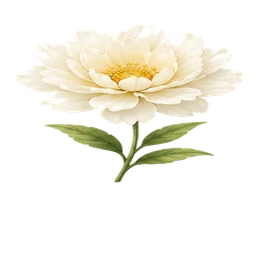
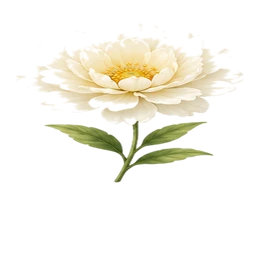
Fix flower white boxes + soften weed colours
Flowers:
- Re-extract all 24 with improved background removal: dilate bg mask
  5px (near-white only) then Gaussian alpha feather (1.2px) for clean
  anti-aliased edges — eliminates white box artifacts on garden bg

Weeds:
- Replace pure black (#1A1E0E) spines with warm dark brown (#4A3520 /
  #574028 / #5E4832) for a natural thorny-plant look
- Reduce outer spine alpha 0.90→0.82, inner 0.72→0.65
- Centre core changed to warm dark brown (#3A2810)
- Slightly smaller (r=11) and softer — less jarring against garden

Claude-Session: https://claude.ai/code/session_01S2gekPUJooPMvPKjFjtUcr

diff --git a/src/screens/Vredepad.jsx b/src/screens/Vredepad.jsx
@@ -459,54 +459,54 @@ function drawPromiseSeed(ctx, x, y, pulse, plant) {
 }
 
 function drawWeed(ctx, x, y, pulse, t) {
-  const r = 12 + Math.sin(pulse * 0.7) * 1.2
+  const r = 11 + Math.sin(pulse * 0.7) * 1.0
   ctx.save()
   ctx.translate(x, y)
-  // Ground shadow
-  const shadow = ctx.createRadialGradient(0, 0, 0, 0, 0, r * 2.2)
-  shadow.addColorStop(0,    'rgba(18,25,8,0.50)')
-  shadow.addColorStop(0.52, 'rgba(18,25,8,0.20)')
-  shadow.addColorStop(1,    'rgba(18,25,8,0)')
+  // Soft dark earth shadow
+  const shadow = ctx.createRadialGradient(0, 0, 0, 0, 0, r * 2.0)
+  shadow.addColorStop(0,    'rgba(45,30,10,0.50)')
+  shadow.addColorStop(0.55, 'rgba(45,30,10,0.18)')
+  shadow.addColorStop(1,    'rgba(45,30,10,0)')
   ctx.fillStyle = shadow
-  ctx.beginPath(); ctx.arc(0, 0, r * 2.2, 0, Math.PI * 2); ctx.fill()
-  // Outer sharp spines — alternating long/short
+  ctx.beginPath(); ctx.arc(0, 0, r * 2.0, 0, Math.PI * 2); ctx.fill()
+  // Outer thorn spines — warm dark brown, alternating lengths
   for (let i = 0; i < 10; i++) {
     const ang = (i / 10) * Math.PI * 2 + pulse * 0.1
-    const tipLen = r * (i % 2 === 0 ? 1.75 : 1.1)
-    const hw = r * 0.19
+    const tipLen = r * (i % 2 === 0 ? 1.65 : 1.05)
+    const hw = r * 0.17
     ctx.save()
     ctx.rotate(ang)
     ctx.beginPath()
-    ctx.moveTo(-hw, r * 0.28)
+    ctx.moveTo(-hw, r * 0.25)
     ctx.lineTo(0, -tipLen)
-    ctx.lineTo(hw, r * 0.28)
+    ctx.lineTo(hw, r * 0.25)
     ctx.closePath()
-    ctx.fillStyle = i % 2 === 0 ? '#282E18' : '#32381E'
-    ctx.globalAlpha = 0.90
+    ctx.fillStyle = i % 2 === 0 ? '#4A3520' : '#574028'
+    ctx.globalAlpha = 0.82
     ctx.fill()
     ctx.restore()
   }
-  // Inner shorter spines offset between outer
+  // Inner shorter spines
   for (let i = 0; i < 8; i++) {
     const ang = ((i + 0.5) / 8) * Math.PI * 2 + pulse * 0.08
-    const tipLen = r * 0.88
-    const hw = r * 0.13
+    const tipLen = r * 0.82
+    const hw = r * 0.12
     ctx.save()
     ctx.rotate(ang)
     ctx.beginPath()
-    ctx.moveTo(-hw, r * 0.1)
+    ctx.moveTo(-hw, r * 0.08)
     ctx.lineTo(0, -tipLen)
-    ctx.lineTo(hw, r * 0.1)
+    ctx.lineTo(hw, r * 0.08)
     ctx.closePath()
-    ctx.fillStyle = '#3C4228'
-    ctx.globalAlpha = 0.72
+    ctx.fillStyle = '#5E4832'
+    ctx.globalAlpha = 0.65
     ctx.fill()
     ctx.restore()
   }
-  // Dark centre core
+  // Dark warm centre
   ctx.globalAlpha = 1
-  ctx.fillStyle = '#1A1E0E'
-  ctx.beginPath(); ctx.arc(0, 0, r * 0.5, 0, Math.PI * 2); ctx.fill()
+  ctx.fillStyle = '#3A2810'
+  ctx.beginPath(); ctx.arc(0, 0, r * 0.48, 0, Math.PI * 2); ctx.fill()
   ctx.restore()
 }
 
